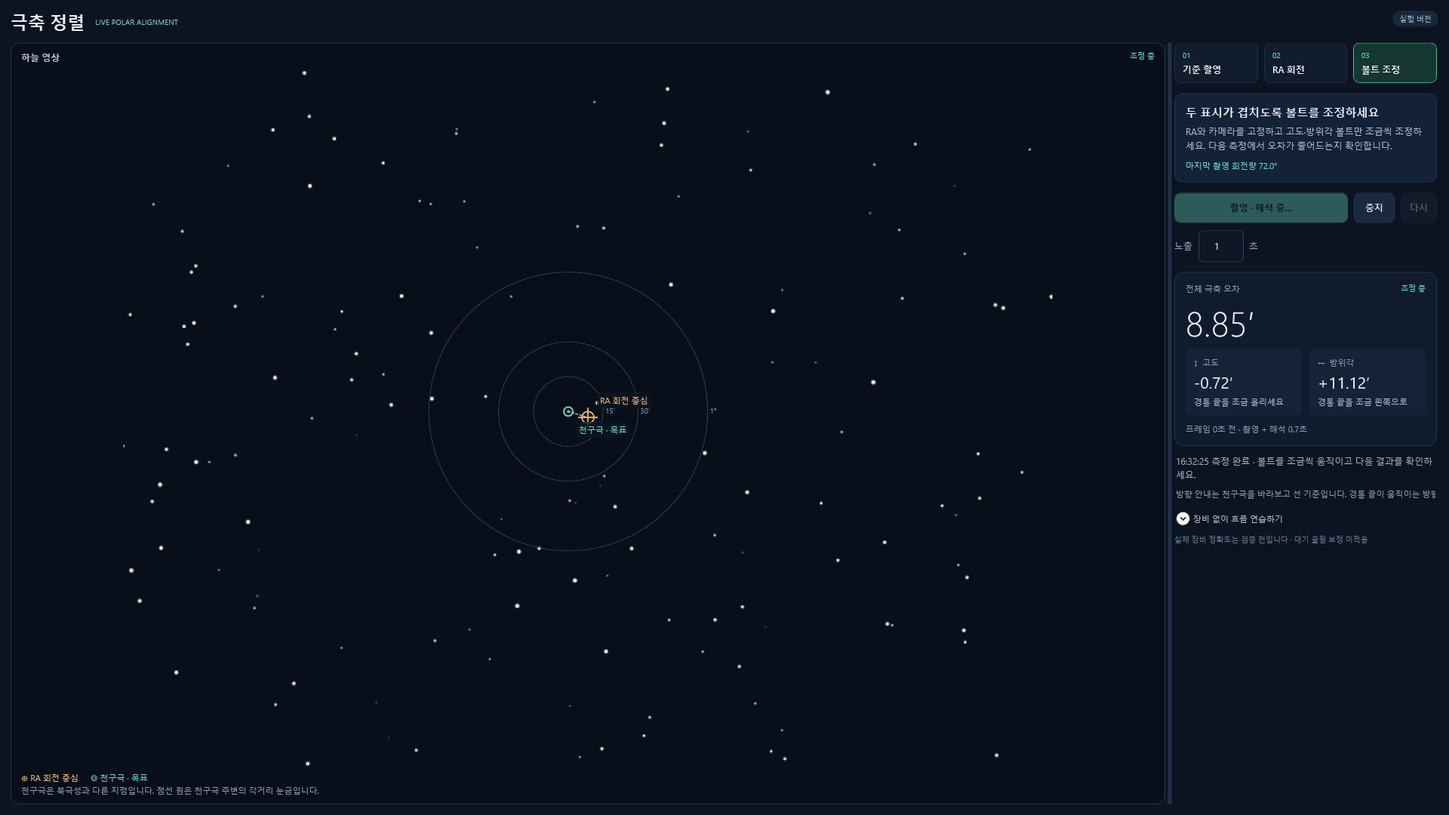
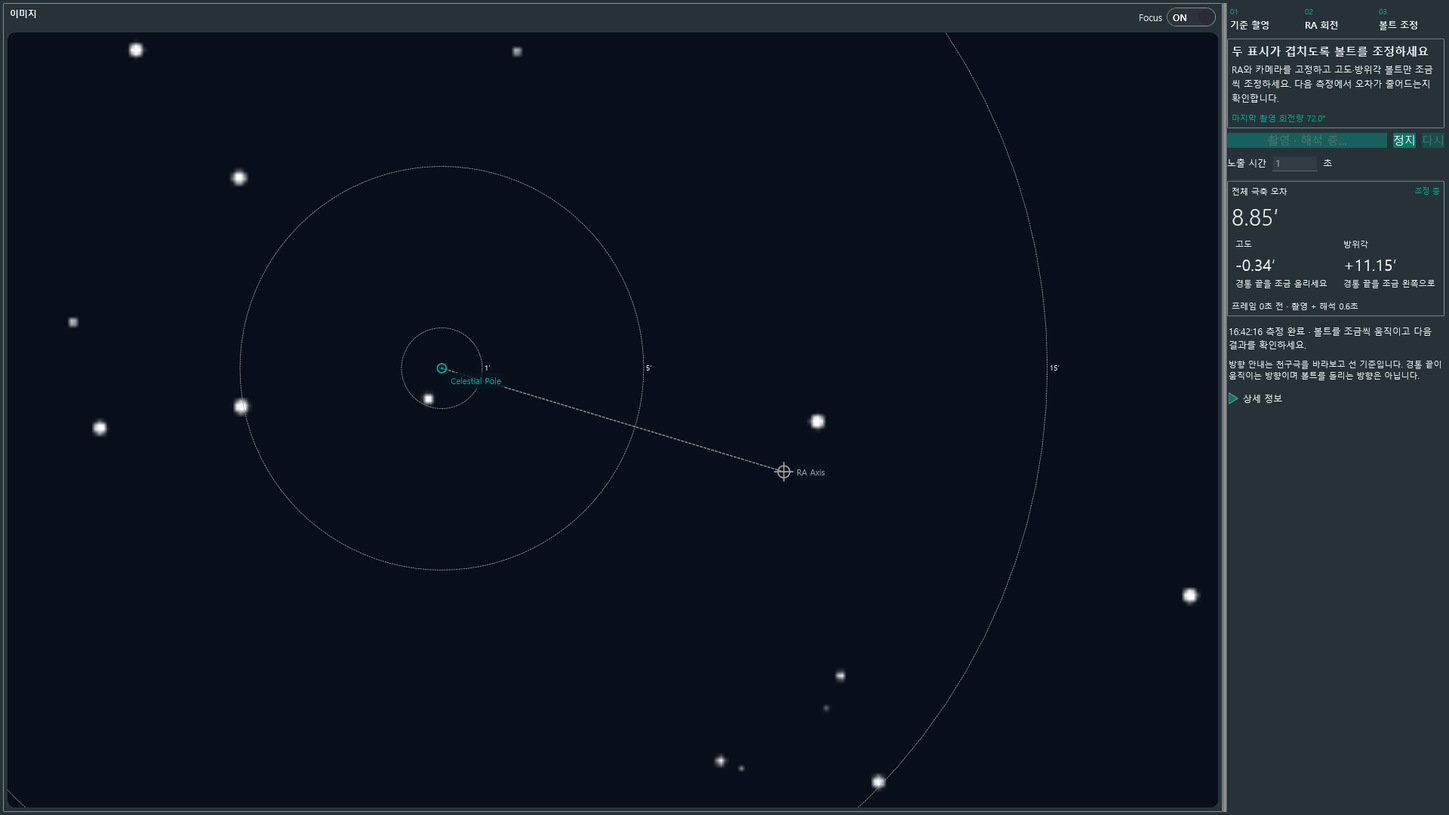
Use NINA theme resources and compact alignment-focused view

diff --git a/src/Nina.LivePolarAlignment/UI/PolarAlignmentView.xaml b/src/Nina.LivePolarAlignment/UI/PolarAlignmentView.xaml
@@ -1,156 +1,91 @@
 <UserControl x:Class="Nina.LivePolarAlignment.UI.PolarAlignmentView"
  xmlns="http://schemas.microsoft.com/winfx/2006/xaml/presentation"
  xmlns:x="http://schemas.microsoft.com/winfx/2006/xaml"
+ xmlns:ns="clr-namespace:NINA.Core.Locale;assembly=NINA.Core"
  xmlns:local="clr-namespace:Nina.LivePolarAlignment.UI"
- MinWidth="320" Background="#0C1421" Foreground="#EAF0F8" FontFamily="Segoe UI" FontSize="12">
- <UserControl.Resources>
-  <BooleanToVisibilityConverter x:Key="VisibleIf"/>
-  <Style TargetType="ScrollBar">
-   <Setter Property="Width" Value="8"/>
-   <Setter Property="Template"><Setter.Value><ControlTemplate TargetType="ScrollBar">
-    <Grid Background="#0C1421">
-     <Track x:Name="PART_Track" IsDirectionReversed="True" Orientation="Vertical">
-      <Track.DecreaseRepeatButton><RepeatButton Command="ScrollBar.PageUpCommand" Focusable="False"><RepeatButton.Template><ControlTemplate TargetType="RepeatButton"><Border Background="Transparent"/></ControlTemplate></RepeatButton.Template></RepeatButton></Track.DecreaseRepeatButton>
-      <Track.Thumb><Thumb><Thumb.Template><ControlTemplate TargetType="Thumb"><Border Background="#30465E" CornerRadius="3" Margin="2,3"/></ControlTemplate></Thumb.Template></Thumb></Track.Thumb>
-      <Track.IncreaseRepeatButton><RepeatButton Command="ScrollBar.PageDownCommand" Focusable="False"><RepeatButton.Template><ControlTemplate TargetType="RepeatButton"><Border Background="Transparent"/></ControlTemplate></RepeatButton.Template></RepeatButton></Track.IncreaseRepeatButton>
-     </Track>
-    </Grid>
-   </ControlTemplate></Setter.Value></Setter>
-  </Style>
-  <Style TargetType="TextBlock"><Setter Property="TextWrapping" Value="Wrap"/></Style>
-  <Style x:Key="Caption" TargetType="TextBlock"><Setter Property="Foreground" Value="#8D9DB4"/><Setter Property="FontSize" Value="11"/></Style>
-  <Style TargetType="Button">
-   <Setter Property="Background" Value="#1A293D"/><Setter Property="Foreground" Value="#D4DEED"/>
-   <Setter Property="BorderBrush" Value="#2A3B53"/><Setter Property="BorderThickness" Value="1"/>
-   <Setter Property="Padding" Value="14,11"/><Setter Property="FontWeight" Value="SemiBold"/>
-   <Setter Property="Cursor" Value="Hand"/>
-   <Setter Property="Template"><Setter.Value><ControlTemplate TargetType="Button">
-    <Border x:Name="Chrome" Background="{TemplateBinding Background}" BorderBrush="{TemplateBinding BorderBrush}" BorderThickness="{TemplateBinding BorderThickness}" CornerRadius="8" Padding="{TemplateBinding Padding}">
-     <ContentPresenter HorizontalAlignment="Center" VerticalAlignment="Center"/>
-    </Border>
-    <ControlTemplate.Triggers>
-     <Trigger Property="IsMouseOver" Value="True"><Setter TargetName="Chrome" Property="Opacity" Value="0.83"/></Trigger>
-     <Trigger Property="IsPressed" Value="True"><Setter TargetName="Chrome" Property="Opacity" Value="0.65"/></Trigger>
-     <Trigger Property="IsKeyboardFocused" Value="True"><Setter TargetName="Chrome" Property="BorderBrush" Value="#F0BA72"/><Setter TargetName="Chrome" Property="BorderThickness" Value="2"/></Trigger>
-     <Trigger Property="IsEnabled" Value="False"><Setter TargetName="Chrome" Property="Opacity" Value="0.35"/></Trigger>
-    </ControlTemplate.Triggers>
-   </ControlTemplate></Setter.Value></Setter>
-  </Style>
-  <Style TargetType="TextBox">
-   <Setter Property="Background" Value="#0D1726"/><Setter Property="Foreground" Value="#EAF0F8"/>
-   <Setter Property="BorderBrush" Value="#30435D"/><Setter Property="Padding" Value="9,6"/>
-   <Setter Property="VerticalContentAlignment" Value="Center"/>
-   <Setter Property="Template"><Setter.Value><ControlTemplate TargetType="TextBox"><Border Background="{TemplateBinding Background}" BorderBrush="{TemplateBinding BorderBrush}" BorderThickness="1" CornerRadius="6"><ScrollViewer x:Name="PART_ContentHost" Margin="{TemplateBinding Padding}"/></Border></ControlTemplate></Setter.Value></Setter>
-  </Style>
-  <Style x:Key="StepCard" TargetType="Border">
-   <Setter Property="Background" Value="#111D2D"/><Setter Property="BorderBrush" Value="#213047"/>
-   <Setter Property="BorderThickness" Value="1"/><Setter Property="CornerRadius" Value="8"/><Setter Property="Padding" Value="10,9"/>
-  </Style>
- </UserControl.Resources>
- <Grid x:Name="WorkspaceGrid" Margin="14">
+ MinWidth="320" Background="{DynamicResource BackgroundBrush}" Foreground="{DynamicResource PrimaryBrush}" FontSize="12">
+ <UserControl.Resources><Style TargetType="TextBlock" BasedOn="{StaticResource StandardTextBlock}"><Setter Property="TextWrapping" Value="Wrap"/></Style><BooleanToVisibilityConverter x:Key="VisibleIf"/><Style x:Key="Caption" TargetType="TextBlock"><Setter Property="FontSize" Value="11"/><Setter Property="TextWrapping" Value="Wrap"/></Style><Style x:Key="StepCard" TargetType="Border"><Setter Property="Padding" Value="4"/></Style></UserControl.Resources>
+ <Grid x:Name="WorkspaceGrid" Margin="4">
   <Grid.RowDefinitions><RowDefinition Height="Auto"/><RowDefinition x:Name="ImageRow" Height="*"/><RowDefinition x:Name="NarrowControlsRow" Height="0"/></Grid.RowDefinitions>
-  <Grid.ColumnDefinitions><ColumnDefinition Width="*"/><ColumnDefinition x:Name="DividerColumn" Width="12"/><ColumnDefinition x:Name="ControlsColumn" Width="350" MinWidth="300" MaxWidth="480"/></Grid.ColumnDefinitions>
-   <Grid Grid.Row="0" Grid.ColumnSpan="3" Margin="0,0,0,12">
-    <Grid.ColumnDefinitions><ColumnDefinition Width="*"/><ColumnDefinition Width="Auto"/></Grid.ColumnDefinitions>
-    <StackPanel Orientation="Horizontal"><TextBlock Text="극축 정렬" FontSize="23" FontWeight="SemiBold"/><TextBlock Text="LIVE POLAR ALIGNMENT" FontSize="10" Foreground="#68DEC5" VerticalAlignment="Center" Margin="14,0,0,0"/></StackPanel>
-    <Border Grid.Column="1" Background="#17283A" CornerRadius="12" Padding="9,4" VerticalAlignment="Top"><TextBlock Text="실험 버전" FontSize="10" Foreground="#9EB3CD"/></Border>
-   </Grid>
-
-  <Border x:Name="ImagePanel" Grid.Row="1" Grid.Column="0" Background="#080F1B" BorderBrush="#263750" BorderThickness="1" CornerRadius="12" Padding="10">
+  <Grid.ColumnDefinitions><ColumnDefinition Width="*"/><ColumnDefinition x:Name="DividerColumn" Width="6"/><ColumnDefinition x:Name="ControlsColumn" Width="290" MinWidth="270" MaxWidth="480"/></Grid.ColumnDefinitions>
+  <Border x:Name="ImagePanel" Grid.Row="1" Grid.Column="0" Background="{DynamicResource BackgroundBrush}" BorderBrush="{DynamicResource BorderBrush}" BorderThickness="1" CornerRadius="1" Padding="5">
    <DockPanel LastChildFill="True">
-    <Grid DockPanel.Dock="Top" Margin="3,0,3,8"><Grid.ColumnDefinitions><ColumnDefinition Width="*"/><ColumnDefinition Width="Auto"/></Grid.ColumnDefinitions><TextBlock Text="하늘 영상" Foreground="#BACBDE" FontWeight="SemiBold"/><TextBlock Grid.Column="1" Text="{Binding MeasurementState}" FontSize="10" Foreground="#68DEC5"/></Grid>
-    <StackPanel DockPanel.Dock="Bottom" Margin="3,8,3,0">
-     <WrapPanel><TextBlock Text="⊕ RA 회전 중심" Foreground="#F0BA72" FontSize="11" Margin="0,0,16,3"/><TextBlock Text="◎ 천구극 · 목표" Foreground="#68DEC5" FontSize="11"/></WrapPanel>
-     <TextBlock Text="천구극은 북극성과 다른 지점입니다. 점선 원은 천구극 주변의 각거리 눈금입니다." Style="{StaticResource Caption}"/>
-    </StackPanel>
+    <Grid DockPanel.Dock="Top" Margin="3,0,3,8"><Grid.ColumnDefinitions><ColumnDefinition Width="*"/><ColumnDefinition Width="Auto"/></Grid.ColumnDefinitions><TextBlock Text="{ns:Loc LblImage}" Foreground="{DynamicResource PrimaryBrush}" FontWeight="SemiBold"/><StackPanel Grid.Column="1" Orientation="Horizontal"><TextBlock Text="Focus" VerticalAlignment="Center" Margin="0,0,6,0"/><CheckBox ToolTip="Zoom to the alignment markers. Turn off to fit the full image." IsChecked="{Binding FocusAlignment, ElementName=SkyField}"/></StackPanel></Grid>
     <local:PolarFieldView x:Name="SkyField" Preview="{Binding LivePreview}" Guidance="{Binding FieldGuidance}" IsCurrent="{Binding HasCurrentFieldGuidance}" PixelScale="{Binding PixelScaleArcseconds}" HorizontalAlignment="Stretch" VerticalAlignment="Stretch"/>
    </DockPanel>
   </Border>
-  <GridSplitter x:Name="PanelDivider" Grid.Row="1" Grid.Column="1" Width="5" HorizontalAlignment="Center" VerticalAlignment="Stretch" Background="#203147" ResizeDirection="Columns" ResizeBehavior="PreviousAndNext" ShowsPreview="True" ToolTip="영상과 조작 패널 너비 조절"/>
+  <GridSplitter x:Name="PanelDivider" Grid.Row="1" Grid.Column="1" Width="5" HorizontalAlignment="Center" VerticalAlignment="Stretch" Background="{DynamicResource BorderBrush}" ResizeDirection="Columns" ResizeBehavior="PreviousAndNext" ShowsPreview="True" ToolTip="영상과 조작 패널 너비 조절"/>
   <ScrollViewer x:Name="ControlScroll" Grid.Row="1" Grid.Column="2" VerticalScrollBarVisibility="Auto" HorizontalScrollBarVisibility="Disabled">
    <StackPanel Margin="0,0,2,0">
 
-   <Grid Margin="0,0,0,14">
+   <Grid Margin="0,0,0,6">
     <Grid.ColumnDefinitions><ColumnDefinition Width="*"/><ColumnDefinition Width="*"/><ColumnDefinition Width="*"/></Grid.ColumnDefinitions>
     <Border Margin="0,0,5,0">
-     <Border.Style><Style TargetType="Border" BasedOn="{StaticResource StepCard}"><Style.Triggers><DataTrigger Binding="{Binding WorkflowStep}" Value="0"><Setter Property="Background" Value="#15372F"/><Setter Property="BorderBrush" Value="#4DBCA4"/></DataTrigger></Style.Triggers></Style></Border.Style>
-     <StackPanel><TextBlock Text="01" Foreground="#68DEC5" FontSize="10"/><TextBlock Text="기준 촬영" FontWeight="SemiBold" Margin="0,4,0,0"/></StackPanel>
+     <Border.Style><Style TargetType="Border" BasedOn="{StaticResource StepCard}"><Style.Triggers><DataTrigger Binding="{Binding WorkflowStep}" Value="0"><Setter Property="Background" Value="{DynamicResource BackgroundBrush}"/><Setter Property="BorderBrush" Value="{DynamicResource ButtonBackgroundSelectedBrush}"/></DataTrigger></Style.Triggers></Style></Border.Style>
+     <StackPanel><TextBlock Text="01" Foreground="{DynamicResource ButtonBackgroundSelectedBrush}" FontSize="10"/><TextBlock Text="기준 촬영" FontWeight="SemiBold" Margin="0,4,0,0"/></StackPanel>
     </Border>
     <Border Grid.Column="1" Margin="3,0,3,0">
-     <Border.Style><Style TargetType="Border" BasedOn="{StaticResource StepCard}"><Style.Triggers><DataTrigger Binding="{Binding WorkflowStep}" Value="1"><Setter Property="Background" Value="#15372F"/><Setter Property="BorderBrush" Value="#4DBCA4"/></DataTrigger></Style.Triggers></Style></Border.Style>
-     <StackPanel><TextBlock Text="02" Foreground="#68DEC5" FontSize="10"/><TextBlock Text="RA 회전" FontWeight="SemiBold" Margin="0,4,0,0"/></StackPanel>
+     <Border.Style><Style TargetType="Border" BasedOn="{StaticResource StepCard}"><Style.Triggers><DataTrigger Binding="{Binding WorkflowStep}" Value="1"><Setter Property="Background" Value="{DynamicResource BackgroundBrush}"/><Setter Property="BorderBrush" Value="{DynamicResource ButtonBackgroundSelectedBrush}"/></DataTrigger></Style.Triggers></Style></Border.Style>
+     <StackPanel><TextBlock Text="02" Foreground="{DynamicResource ButtonBackgroundSelectedBrush}" FontSize="10"/><TextBlock Text="RA 회전" FontWeight="SemiBold" Margin="0,4,0,0"/></StackPanel>
     </Border>
     <Border Grid.Column="2" Margin="5,0,0,0">
-     <Border.Style><Style TargetType="Border" BasedOn="{StaticResource StepCard}"><Style.Triggers><DataTrigger Binding="{Binding WorkflowStep}" Value="2"><Setter Property="Background" Value="#15372F"/><Setter Property="BorderBrush" Value="#4DBCA4"/></DataTrigger></Style.Triggers></Style></Border.Style>
-     <StackPanel><TextBlock Text="03" Foreground="#68DEC5" FontSize="10"/><TextBlock Text="볼트 조정" FontWeight="SemiBold" Margin="0,4,0,0"/></StackPanel>
+     <Border.Style><Style TargetType="Border" BasedOn="{StaticResource StepCard}"><Style.Triggers><DataTrigger Binding="{Binding WorkflowStep}" Value="2"><Setter Property="Background" Value="{DynamicResource BackgroundBrush}"/><Setter Property="BorderBrush" Value="{DynamicResource ButtonBackgroundSelectedBrush}"/></DataTrigger></Style.Triggers></Style></Border.Style>
+     <StackPanel><TextBlock Text="03" Foreground="{DynamicResource ButtonBackgroundSelectedBrush}" FontSize="10"/><TextBlock Text="볼트 조정" FontWeight="SemiBold" Margin="0,4,0,0"/></StackPanel>
     </Border>
    </Grid>
 
-   <Border Background="#142238" BorderBrush="#253850" BorderThickness="1" CornerRadius="10" Padding="14" Margin="0,0,0,14">
+   <Border Background="{DynamicResource BackgroundBrush}" BorderBrush="{DynamicResource BorderBrush}" BorderThickness="1" CornerRadius="1" Padding="5" Margin="0,0,0,6">
     <StackPanel>
      <TextBlock Text="{Binding WorkflowTitle}" FontSize="15" FontWeight="SemiBold"/>
-     <TextBlock Text="{Binding WorkflowDescription}" Foreground="#AEBED2" LineHeight="19" Margin="0,7,0,0"/>
-     <TextBlock Text="{Binding RotationReadout}" Foreground="#68DEC5" FontSize="11" Margin="0,8,0,0" Visibility="{Binding IsAdjustmentStep, Converter={StaticResource VisibleIf}}"/>
+     <TextBlock Text="{Binding WorkflowDescription}" Foreground="{DynamicResource PrimaryBrush}" LineHeight="19" Margin="0,7,0,0"/>
+     <TextBlock Text="{Binding RotationReadout}" Foreground="{DynamicResource ButtonBackgroundSelectedBrush}" FontSize="11" Margin="0,8,0,0" Visibility="{Binding IsAdjustmentStep, Converter={StaticResource VisibleIf}}"/>
      <Grid Margin="0,12,0,0" Visibility="{Binding IsRotationStep, Converter={StaticResource VisibleIf}}">
       <Grid.ColumnDefinitions><ColumnDefinition Width="90"/><ColumnDefinition Width="*"/></Grid.ColumnDefinitions>
       <Viewbox Width="76" Height="76" HorizontalAlignment="Left">
        <Canvas Width="80" Height="80">
-        <Ellipse Width="58" Height="58" Canvas.Left="11" Canvas.Top="11" Stroke="#304D65" StrokeThickness="1"/>
-        <Line X1="40" Y1="40" X2="40" Y2="8" Stroke="#5D7E96" StrokeThickness="2" StrokeDashArray="2,2"/>
-        <Line X1="40" Y1="40" X2="72" Y2="40" Stroke="#68DEC5" StrokeThickness="2"/>
-        <Path Data="M40,8 A32,32 0 0 1 72,40 M65,34 L72,40 L77,32" Stroke="#68DEC5" StrokeThickness="2"/>
-        <Ellipse Width="6" Height="6" Canvas.Left="37" Canvas.Top="37" Fill="#F0BA72"/>
-        <TextBlock Text="RA" Canvas.Left="22" Canvas.Top="47" FontSize="12" Foreground="#D8E5F2"/>
+        <Ellipse Width="58" Height="58" Canvas.Left="11" Canvas.Top="11" Stroke="{DynamicResource PrimaryBrush}" StrokeThickness="1"/>
+        <Line X1="40" Y1="40" X2="40" Y2="8" Stroke="{DynamicResource PrimaryBrush}" StrokeThickness="2" StrokeDashArray="2,2"/>
+        <Line X1="40" Y1="40" X2="72" Y2="40" Stroke="{DynamicResource ButtonBackgroundSelectedBrush}" StrokeThickness="2"/>
+        <Path Data="M40,8 A32,32 0 0 1 72,40 M65,34 L72,40 L77,32" Stroke="{DynamicResource ButtonBackgroundSelectedBrush}" StrokeThickness="2"/>
+        <Ellipse Width="6" Height="6" Canvas.Left="37" Canvas.Top="37" Fill="{DynamicResource PrimaryBrush}"/>
+        <TextBlock Text="RA" Canvas.Left="22" Canvas.Top="47" FontSize="12" Foreground="{DynamicResource PrimaryBrush}"/>
        </Canvas>
       </Viewbox>
-      <StackPanel Grid.Column="1" VerticalAlignment="Center"><TextBlock Text="{Binding RotationReadout}" Foreground="#68DEC5" FontWeight="SemiBold"/><TextBlock Text="권장 각도 그림입니다. 실제 회전량은 촬영 후 계산됩니다." Style="{StaticResource Caption}" Margin="0,5,0,0"/></StackPanel>
+      <StackPanel Grid.Column="1" VerticalAlignment="Center"><TextBlock Text="{Binding RotationReadout}" Foreground="{DynamicResource ButtonBackgroundSelectedBrush}" FontWeight="SemiBold"/><TextBlock Text="권장 각도 그림입니다. 실제 회전량은 촬영 후 계산됩니다." Style="{StaticResource Caption}" Margin="0,5,0,0"/></StackPanel>
      </Grid>
     </StackPanel>
    </Border>
 
    <Grid Margin="0,0,0,10">
     <Grid.ColumnDefinitions><ColumnDefinition Width="*"/><ColumnDefinition Width="Auto"/><ColumnDefinition Width="Auto"/></Grid.ColumnDefinitions>
-    <Button Content="{Binding PrimaryActionLabel}" Command="{Binding PrimaryActionCommand}" Background="#68DEC5" Foreground="#08271F" BorderBrush="#68DEC5" Margin="0,0,8,0"/>
-    <Button Grid.Column="1" Content="중지" Command="{Binding StopLiveCommand}" Margin="0,0,8,0"/>
-    <Button Grid.Column="2" Content="다시" ToolTip="기준을 초기화하고 처음부터 시작합니다" Command="{Binding ResetLiveCommand}" Padding="11,11"/>
+    <Button Foreground="{DynamicResource ButtonForegroundBrush}" Content="{Binding PrimaryActionLabel}" Command="{Binding PrimaryActionCommand}" Background="{DynamicResource ButtonBackgroundSelectedBrush}" BorderBrush="{DynamicResource ButtonBackgroundSelectedBrush}" Margin="0,0,8,0"/>
+    <Button Foreground="{DynamicResource ButtonForegroundBrush}" Grid.Column="1" Content="{ns:Loc LblStop}" Command="{Binding StopLiveCommand}" Margin="0,0,8,0"/>
+    <Button Foreground="{DynamicResource ButtonForegroundBrush}" Grid.Column="2" Content="다시" ToolTip="기준을 초기화하고 처음부터 시작합니다" Command="{Binding ResetLiveCommand}" Padding="6,5"/>
    </Grid>
    <Grid Margin="0,0,0,13">
     <Grid.ColumnDefinitions><ColumnDefinition Width="Auto"/><ColumnDefinition Width="Auto"/><ColumnDefinition Width="*"/></Grid.ColumnDefinitions>
-    <TextBlock Text="노출" VerticalAlignment="Center" Foreground="#8D9DB4" Margin="0,0,8,0"/>
+    <TextBlock Text="{ns:Loc LblExposureTime}" VerticalAlignment="Center" Margin="0,0,8,0"/>
     <TextBox Grid.Column="1" Width="60" Text="{Binding ExposureSeconds, UpdateSourceTrigger=LostFocus}" IsEnabled="{Binding CanConfigureLive}" AutomationProperties.Name="노출 시간(초)"/>
-    <TextBlock Grid.Column="2" Text="초" VerticalAlignment="Center" Foreground="#8D9DB4" Margin="7,0,0,0"/>
+    <TextBlock Grid.Column="2" Text="초" VerticalAlignment="Center" Foreground="{DynamicResource PrimaryBrush}" Margin="7,0,0,0"/>
    </Grid>
 
-   <Border Background="#382A1D" BorderBrush="#825E36" BorderThickness="1" CornerRadius="8" Padding="11" Margin="0,0,0,12" Visibility="{Binding HasOperationError, Converter={StaticResource VisibleIf}}"><StackPanel><TextBlock Text="확인이 필요합니다" Foreground="#F0BA72" FontWeight="SemiBold"/><TextBlock Text="{Binding OperationError}" Foreground="#DECBB1" Margin="0,5,0,0"/></StackPanel></Border>
+   <Border Background="{DynamicResource PrimaryBrush}" BorderBrush="{DynamicResource PrimaryBrush}" BorderThickness="1" CornerRadius="1" Padding="5" Margin="0,0,0,12" Visibility="{Binding HasOperationError, Converter={StaticResource VisibleIf}}"><StackPanel><TextBlock Text="확인이 필요합니다" Foreground="{DynamicResource PrimaryBrush}" FontWeight="SemiBold"/><TextBlock Text="{Binding OperationError}" Foreground="{DynamicResource PrimaryBrush}" Margin="0,5,0,0"/></StackPanel></Border>
 
-   <Border Background="#101C2D" BorderBrush="#263750" BorderThickness="1" CornerRadius="12" Padding="14">
+   <Border Background="{DynamicResource BackgroundBrush}" BorderBrush="{DynamicResource BorderBrush}" BorderThickness="1" CornerRadius="1" Padding="5">
     <StackPanel>
-     <Grid Margin="0,0,0,6"><Grid.ColumnDefinitions><ColumnDefinition Width="*"/><ColumnDefinition Width="Auto"/></Grid.ColumnDefinitions><TextBlock Text="전체 극축 오차" Style="{StaticResource Caption}"/><TextBlock Grid.Column="1" Text="{Binding MeasurementState}" FontSize="10" Foreground="#68DEC5"/></Grid>
-     <TextBlock Text="{Binding LiveTotalError}" FontSize="46" FontWeight="Light" Margin="0,0,0,5">
-      <TextBlock.Style><Style TargetType="TextBlock"><Setter Property="Foreground" Value="#EAF0F8"/><Style.Triggers><DataTrigger Binding="{Binding IsMeasurementStale}" Value="True"><Setter Property="Foreground" Value="#6F8199"/></DataTrigger><DataTrigger Binding="{Binding IsWithinTarget}" Value="True"><Setter Property="Foreground" Value="#68DEC5"/></DataTrigger></Style.Triggers></Style></TextBlock.Style>
+     <Grid Margin="0,0,0,6"><Grid.ColumnDefinitions><ColumnDefinition Width="*"/><ColumnDefinition Width="Auto"/></Grid.ColumnDefinitions><TextBlock Text="전체 극축 오차" Style="{StaticResource Caption}"/><TextBlock Grid.Column="1" Text="{Binding MeasurementState}" FontSize="10" Foreground="{DynamicResource ButtonBackgroundSelectedBrush}"/></Grid>
+     <TextBlock Text="{Binding LiveTotalError}" FontSize="30" FontWeight="Light" Margin="0,0,0,5">
+      <TextBlock.Style><Style TargetType="TextBlock"><Setter Property="Foreground" Value="{DynamicResource PrimaryBrush}"/><Style.Triggers><DataTrigger Binding="{Binding IsMeasurementStale}" Value="True"><Setter Property="Foreground" Value="{DynamicResource PrimaryBrush}"/></DataTrigger><DataTrigger Binding="{Binding IsWithinTarget}" Value="True"><Setter Property="Foreground" Value="{DynamicResource ButtonBackgroundSelectedBrush}"/></DataTrigger></Style.Triggers></Style></TextBlock.Style>
      </TextBlock>
      <Grid>
       <Grid.ColumnDefinitions><ColumnDefinition Width="*"/><ColumnDefinition Width="*"/></Grid.ColumnDefinitions>
-      <Border Background="#152339" CornerRadius="8" Padding="11" Margin="0,0,5,0"><StackPanel><TextBlock Text="↕  고도" Style="{StaticResource Caption}"/><TextBlock Text="{Binding AltitudeValue}" FontSize="21" Margin="0,5,0,4"/><TextBlock Text="{Binding AltitudeAction}" FontSize="11" Foreground="#AEBFD4"/></StackPanel></Border>
-      <Border Grid.Column="1" Background="#152339" CornerRadius="8" Padding="11" Margin="5,0,0,0"><StackPanel><TextBlock Text="↔  방위각" Style="{StaticResource Caption}"/><TextBlock Text="{Binding AzimuthValue}" FontSize="21" Margin="0,5,0,4"/><TextBlock Text="{Binding AzimuthAction}" FontSize="11" Foreground="#AEBFD4"/></StackPanel></Border>
+      <Border Background="{DynamicResource BackgroundBrush}" CornerRadius="1" Padding="5" Margin="0,0,5,0"><StackPanel><TextBlock Text="{ns:Loc LblAltitude}" Style="{StaticResource Caption}"/><TextBlock Text="{Binding AltitudeValue}" FontSize="21" Margin="0,5,0,4"/><TextBlock Text="{Binding AltitudeAction}" FontSize="11" Foreground="{DynamicResource PrimaryBrush}"/></StackPanel></Border>
+      <Border Grid.Column="1" Background="{DynamicResource BackgroundBrush}" CornerRadius="1" Padding="5" Margin="5,0,0,0"><StackPanel><TextBlock Text="{ns:Loc LblAzimuth}" Style="{StaticResource Caption}"/><TextBlock Text="{Binding AzimuthValue}" FontSize="21" Margin="0,5,0,4"/><TextBlock Text="{Binding AzimuthAction}" FontSize="11" Foreground="{DynamicResource PrimaryBrush}"/></StackPanel></Border>
      </Grid>
      <TextBlock Text="{Binding FrameFreshness}" Style="{StaticResource Caption}" Margin="0,11,0,0"/>
     </StackPanel>
    </Border>
-   <TextBlock Text="{Binding LiveStatus}" Foreground="#9FB0C7" LineHeight="18" Margin="2,12,2,8"/>
+   <TextBlock Text="{Binding LiveStatus}" Foreground="{DynamicResource PrimaryBrush}" LineHeight="18" Margin="2,12,2,8"/>
    <TextBlock Text="방향 안내는 천구극을 바라보고 선 기준입니다. 경통 끝이 움직이는 방향이며 볼트를 돌리는 방향은 아닙니다." Style="{StaticResource Caption}" Margin="2,0,2,14"/>
 
-   <Expander Foreground="#B4C4D9" IsExpanded="False" Margin="0,0,0,10">
-    <Expander.Header><TextBlock Text="장비 없이 흐름 연습하기" FontSize="11"/></Expander.Header>
-    <StackPanel Margin="0,12,0,0">
-     <TextBlock Text="합성 데이터 연습 · 실제 정렬에 사용하지 마세요" Foreground="#F0BA72" Margin="0,0,0,10"/>
-     <TextBlock Text="{Binding NextAction}" Margin="0,0,0,10"/>
-     <WrapPanel><Button Content="연습 시작" Command="{Binding StartCommand}" Margin="0,0,6,6"/><Button Content="{Binding CaptureLabel}" Command="{Binding CaptureCommand}" Margin="0,0,6,6"/><Button Content="종료" Command="{Binding StopCommand}" Margin="0,0,0,6"/></WrapPanel>
-     <Border Background="#142238" CornerRadius="8" Padding="12" Margin="0,6,0,0"><StackPanel><TextBlock Text="{Binding TotalError}" FontSize="26"/><TextBlock Text="고도 조정 연습" Margin="0,10,0,0"/><Slider Minimum="-12" Maximum="12" Value="{Binding AltitudeError}" IsEnabled="{Binding IsAdjusting}" Margin="0,8,0,12" AutomationProperties.Name="합성 고도 오차"/><TextBlock Text="방위각 조정 연습"/><Slider Minimum="-12" Maximum="12" Value="{Binding AzimuthError}" IsEnabled="{Binding IsAdjusting}" Margin="0,8,0,0" AutomationProperties.Name="합성 방위각 오차"/></StackPanel></Border>
-    </StackPanel>
-   </Expander>
-   <TextBlock Text="실제 장비 정확도는 검증 전입니다 · 대기 굴절 보정 미적용" Foreground="#667B95" FontSize="10"/>
-   </StackPanel>
-  </ScrollViewer>
- </Grid>
-</UserControl>
+   <Expander Header="{ns:Loc LblDetails}"><TextBlock Text="Celestial Pole: target direction. RA Axis: measured rotation axis. Dashed rings show angular distance from the pole. Hardware accuracy has not yet been verified; atmospheric refraction is not applied." TextWrapping="Wrap"/></Expander></StackPanel></ScrollViewer></Grid></UserControl>

diff --git a/src/Nina.LivePolarAlignment/UI/PolarFieldView.cs b/src/Nina.LivePolarAlignment/UI/PolarFieldView.cs
@@ -2,6 +2,7 @@ using System;
 using System.Globalization;
 using System.Windows;
 using System.Windows.Media;
+using System.Windows.Documents;
 using System.Windows.Media.Imaging;
 using Nina.LivePolarAlignment.Capture;
 using Nina.LivePolarAlignment.Core;
@@ -19,7 +20,11 @@ public sealed class PolarFieldView : FrameworkElement {
     public bool IsCurrent { get => (bool)GetValue(IsCurrentProperty); set => SetValue(IsCurrentProperty, value); }
     public double PixelScale { get => (double)GetValue(PixelScaleProperty); set => SetValue(PixelScaleProperty, value); }
     private static Brush Color(string hex) => (Brush)new BrushConverter().ConvertFromString(hex)!;
-    private static readonly Brush Mint = Color("#68DEC5"), Amber = Color("#F0BA72"), Muted = Color("#8395AC");
+    public static readonly DependencyProperty FocusAlignmentProperty = DependencyProperty.Register(nameof(FocusAlignment), typeof(bool), typeof(PolarFieldView), new FrameworkPropertyMetadata(true, FrameworkPropertyMetadataOptions.AffectsRender));
+    public bool FocusAlignment { get => (bool)GetValue(FocusAlignmentProperty); set => SetValue(FocusAlignmentProperty, value); }
+    private Brush Mint => TryFindResource("ButtonBackgroundSelectedBrush") as Brush ?? Brushes.LightGray;
+    private Brush Amber => TryFindResource("CrosshairBrush") as Brush ?? Brushes.Gray;
+    private Brush Muted => TryFindResource("PrimaryBrush") as Brush ?? Brushes.LightGray;
 
     protected override Size MeasureOverride(Size availableSize) {
         double width = double.IsInfinity(availableSize.Width) ? 480 : availableSize.Width;
@@ -36,7 +41,13 @@ public sealed class PolarFieldView : FrameworkElement {
         double width = Guidance?.Width ?? Preview?.PixelWidth ?? 800;
         double height = Guidance?.Height ?? Preview?.PixelHeight ?? 600;
         double scale = Math.Min(ActualWidth / width, ActualHeight / height);
-        var imageRect = new Rect((ActualWidth - width * scale) / 2, (ActualHeight - height * scale) / 2, width * scale, height * scale);
+        double cx = width / 2, cy = height / 2;
+        if (FocusAlignment && IsCurrent && Guidance?.CelestialPole is { } target) {
+            var axis = Guidance.MountAxis ?? target;
+            cx = (target.X + axis.X) / 2; cy = (target.Y + axis.Y) / 2;
+            scale = Math.Max(scale, Math.Min(ActualWidth / Math.Max(width * .32, Math.Abs(target.X - axis.X) * 2.5), ActualHeight / Math.Max(height * .32, Math.Abs(target.Y - axis.Y) * 2.5)));
+        }
+        var imageRect = new Rect(ActualWidth / 2 - cx * scale, ActualHeight / 2 - cy * scale, width * scale, height * scale);
         if (Preview != null) dc.DrawImage(Preview, imageRect);
         else {
             var gridPen = new Pen(Color("#142235"), 1);
@@ -54,7 +65,7 @@ public sealed class PolarFieldView : FrameworkElement {
                 foreach (double degrees in new[] { 1.0 / 60, 5.0 / 60, .25, .5, 1, 2, 5 }) {
                     double radius = Math.Tan(degrees * Math.PI / 180) * 206264.80624709636 / PixelScale * scale;
                     if (radius < 30 || radius > Math.Max(ActualWidth, ActualHeight) * .8) continue;
-                    var ringPen = new Pen(Color("#35685F"), .8) { DashStyle = DashStyles.Dash };
+                    var ringPen = new Pen(Amber, .8) { DashStyle = DashStyles.Dash };
                     var path = AngularRing(Guidance.CelestialPole!.Value, width, height, degrees, Map);
                     dc.DrawGeometry(null, ringPen, path);
                     var labelPosition = new Point(center.X + radius + 3, center.Y - 8);
@@ -67,20 +78,20 @@ public sealed class PolarFieldView : FrameworkElement {
                 dc.DrawLine(connector, axisPoint, polePoint);
             }
             if (axis is { } mount) {
-                if (imageRect.Contains(mount)) {
+                if (bounds.Contains(mount)) {
                     var pen = new Pen(Amber, 1.8);
                     dc.DrawEllipse(null, pen, mount, 8, 8);
                     dc.DrawLine(pen, new(mount.X - 13, mount.Y), new(mount.X + 13, mount.Y));
                     dc.DrawLine(pen, new(mount.X, mount.Y - 13), new(mount.X, mount.Y + 13));
-                    Label(dc, "RA 회전 중심", new Point(mount.X + 16, mount.Y - 30), Amber, 11);
+                    Label(dc, "RA Axis", new Point(mount.X + 17, mount.Y - 7), Amber, 11);
                 } else EdgeMarker(dc, mount, "RA축 · 화면 밖", Amber, bounds);
             }
             if (pole is { } celestial) {
-                if (imageRect.Contains(celestial)) {
+                if (bounds.Contains(celestial)) {
                     var pen = new Pen(Mint, 2);
                     dc.DrawEllipse(null, pen, celestial, 6, 6);
                     dc.DrawEllipse(Mint, null, celestial, 1.8, 1.8);
-                    Label(dc, "천구극 · 목표", new Point(celestial.X + 14, celestial.Y + 17), Mint, 11);
+                    Label(dc, "Celestial Pole", new Point(celestial.X + 12, celestial.Y + 9), Mint, 11);
                 } else EdgeMarker(dc, celestial, "천구극 · 화면 밖", Mint, bounds);
             }
         }
@@ -116,7 +127,7 @@ public sealed class PolarFieldView : FrameworkElement {
 
     private void Label(DrawingContext dc, string text, Point position, Brush foreground, double size, bool background = true) {
         var formatted = new FormattedText(text, CultureInfo.CurrentUICulture, FlowDirection.LeftToRight,
-            new Typeface("Segoe UI"), size, foreground, VisualTreeHelper.GetDpi(this).PixelsPerDip);
+            new Typeface(TextElement.GetFontFamily(this), TextElement.GetFontStyle(this), TextElement.GetFontWeight(this), TextElement.GetFontStretch(this)), size, foreground, VisualTreeHelper.GetDpi(this).PixelsPerDip);
         double x = Math.Clamp(position.X, 6, Math.Max(6, ActualWidth - formatted.Width - 12));
         double y = Math.Clamp(position.Y, 6, Math.Max(6, ActualHeight - formatted.Height - 12));
         if (background) dc.DrawRoundedRectangle(Color("#D90B1522"), null, new Rect(x - 4, y - 3, formatted.Width + 8, formatted.Height + 6), 4, 4);

diff --git a/tools/Nina.LivePolarAlignment.Preview/Program.cs b/tools/Nina.LivePolarAlignment.Preview/Program.cs
@@ -15,8 +15,9 @@ namespace Nina.LivePolarAlignment.Preview;
 public class SampleProfile : DispatchProxy {
     public object? Active { get; set; }
     public object? Site { get; set; }
+    public object? Theme { get; set; }
     protected override object? Invoke(MethodInfo? method, object?[]? args) => method?.Name switch {
-        "get_ActiveProfile" => Active, "get_AstrometrySettings" => Site,
+        "get_ColorSchemaSettings" => Theme, "get_ActiveProfile" => Active, "get_AstrometrySettings" => Site,
         "get_Latitude" => 37.5, "get_Longitude" => 127.0, _ => null
     };
 }
@@ -27,7 +28,7 @@ internal sealed class SampleCapture : IPolarAlignmentCaptureService {
     public async Task<SolvedPolarFrame> CaptureAndSolveAsync(double exposureSeconds, CancellationToken token, IProgress<ApplicationStatus>? progress = null) {
         await Task.Delay(650, token);
         int step = Step();
-        return new(0, step == 2 ? 89.7 : 89.6, step == 0 ? 0 : 72, 30, 800, 600, false, DateTimeOffset.UtcNow, Image);
+        return new(0, step == 2 ? 89.7 : 89.6, step == 0 ? 0 : 72, 6, 800, 600, false, DateTimeOffset.UtcNow, Image);
     }
     private static BitmapSource MakeStars() {
         var visual = new DrawingVisual();
@@ -48,7 +49,7 @@ internal sealed class SampleCapture : IPolarAlignmentCaptureService {
 internal static class Program {
     private static PolarAlignmentDockableVM? current;
     private static Task? currentLoop;
-    private static readonly PolarAlignmentView View = new();
+    private static PolarAlignmentView View = null!;
     private static readonly StackPanel SceneButtons = new() { Orientation = Orientation.Horizontal };
 
     [STAThread]
@@ -59,6 +60,14 @@ internal static class Program {
         Environment.SetEnvironmentVariable("LOCALAPPDATA", sampleData);
         var application = new Application();
         application.Resources["PuzzlePieceSVG"] = new GeometryGroup();
+        var theme = new NINA.Profile.ColorSchemaSettings();
+        theme.ColorSchema = theme.ColorSchemas.Items.First(x => x.Name == "Persian");
+        var tp = DispatchProxy.Create<IProfile, SampleProfile>(); ((SampleProfile)(object)tp).Theme = theme;
+        var ts = DispatchProxy.Create<IProfileService, SampleProfile>(); ((SampleProfile)(object)ts).Active = tp;
+        application.Resources["ProfileService"] = ts;
+        foreach (var r in new[] { "StaticResources/Brushes.xaml", "Styles/Button.xaml", "Styles/TextBlock.xaml", "Styles/TextBox.xaml", "Styles/CheckBox.xaml", "Styles/Expander.xaml" })
+            application.Resources.MergedDictionaries.Add(new ResourceDictionary { Source = new Uri("pack://application:,,,/NINA.WPF.Base;component/Resources/" + r) });
+        View = new PolarAlignmentView();
         var layout = new DockPanel();
         var header = new StackPanel { Background = new SolidColorBrush(Color.FromRgb(34, 44, 60)) };
         header.Children.Add(new TextBlock {
@@ -66,7 +75,7 @@ internal static class Program {
             Foreground = new SolidColorBrush(Color.FromRgb(240, 186, 114)), Margin = new Thickness(14, 11, 14, 7)
         });
         foreach (var item in new[] { ("1. 첫 화면", 0), ("2. RA 회전", 1), ("3. 조정 화면", 2) }) {
-            var button = new Button { Content = item.Item1, Style = (Style)View.Resources[typeof(Button)], Margin = new Thickness(4, 0, 4, 9), Padding = new Thickness(10, 5, 10, 5) };
+            var button = new Button { Content = item.Item1, Foreground = Brushes.White, Margin = new Thickness(4, 0, 4, 9), Padding = new Thickness(10, 5, 10, 5) };
             button.Click += async (_, _) => await SelectScene(item.Item2);
             SceneButtons.Children.Add(button);
         }

diff --git a/src/Nina.LivePolarAlignment/UI/PolarAlignmentView.xaml.cs b/src/Nina.LivePolarAlignment/UI/PolarAlignmentView.xaml.cs
@@ -17,9 +17,9 @@ public partial class PolarAlignmentView : UserControl {
         bool wide = width >= 900;
         if (wideLayout != wide) {
             wideLayout = wide;
-            ControlsColumn.MinWidth = wide ? 300 : 0;
-            ControlsColumn.Width = new GridLength(wide ? 350 : 0);
-            DividerColumn.Width = new GridLength(wide ? 12 : 0);
+            ControlsColumn.MinWidth = wide ? 270 : 0;
+            ControlsColumn.Width = new GridLength(wide ? 290 : 0);
+            DividerColumn.Width = new GridLength(wide ? 6 : 0);
             PanelDivider.Visibility = wide ? Visibility.Visible : Visibility.Collapsed;
             NarrowControlsRow.Height = wide ? new GridLength(0) : new GridLength(1, GridUnitType.Star);
             Grid.SetRow(ControlScroll, wide ? 1 : 2);

diff --git a/tools/Nina.LivePolarAlignment.Preview/README.md b/tools/Nina.LivePolarAlignment.Preview/README.md
@@ -27,3 +27,6 @@ dotnet run --project tools/Nina.LivePolarAlignment.Preview -c Release -- --rende
 This checks all three stages, the image area and control positions, live publication and cancellation/stale behavior,
 and writes PNGs plus `preview-verification.txt`. It does not test actual camera
 capture, external plate solving or accuracy of a physical mount.
+
+The preview loads NINA's actual Persian color schema and WPF control dictionaries. The plugin inherits host theme brushes and fonts. Focus follows the celestial pole and measured RA axis without changing the astrometric projection; switch it off to fit the complete frame. The synthetic camera uses 6 arcseconds/pixel. Common labels use NINA's locale resources; plugin-specific workflow instructions currently remain Korean.
+
